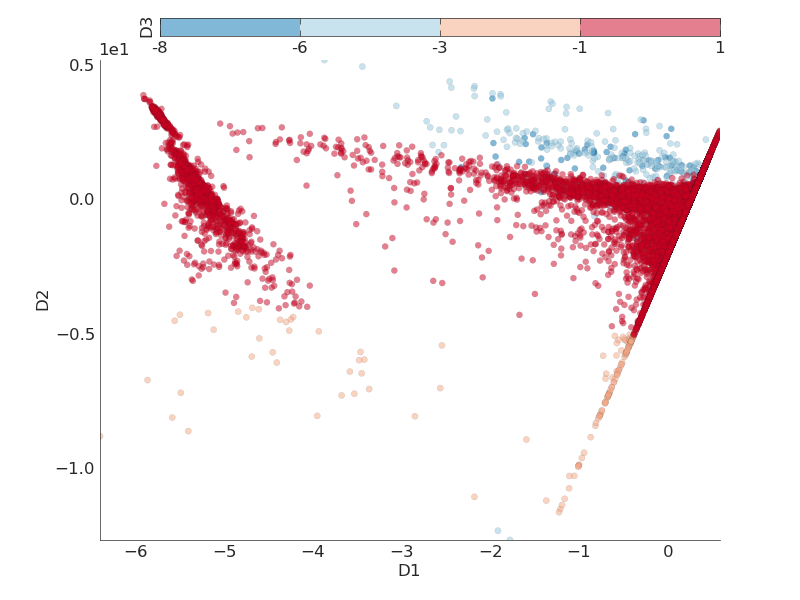
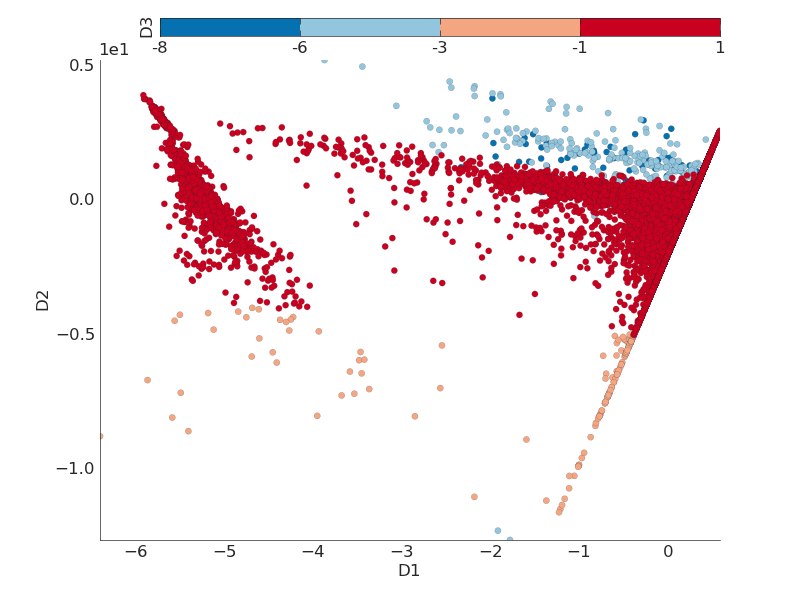
Minor changes

diff --git a/python/thesis_plots.py b/python/thesis_plots.py
@@ -40,7 +40,7 @@ def plot_issue_26():
 	"""
 	PCA and Kmeans for dataset 1
 	"""
-	from sklearn.decomposition import PCA, KernelPCA
+	from sklearn.decomposition import PCA
 	from sklearn.cluster import KMeans
 	from plotting import make_color_grouped_scatter_plot
 	datapath = '/Users/halfdan/Dropbox/Waseda/Research/MarketSimulation/tex/datasets/d1_sameLatDist_ssmm40_sc100/'
@@ -52,15 +52,24 @@ def plot_issue_26():
 	t = pca.fit_transform(fit_data.values)
 	columns = ['d1', 'd2', 'd3']
 	df = pandas.DataFrame(t, columns=columns)
+
+	colormap = brewer2mpl.get_map('RdBu', 'diverging', 4, reverse=True)
 	filename = figure_save_path + 'issue_26_PCA_a_3components.png'
-	make_color_grouped_scatter_plot(data_frame=df, x_name='d1', y_name='d2', color_by='d3', filename=filename)
+	make_color_grouped_scatter_plot(data_frame=df, x_name='d1', y_name='d2', color_by='d3', filename=filename, colormap=colormap)
 
 	kmeans = KMeans(n_clusters = 3)
 	kmeans.fit(t)
 	df['labels'] = kmeans.labels_
+	print len(df['d1'])
+	print len(kmeans.labels_)
+	colormap = brewer2mpl.get_map('Set2', 'Qualitative', 3, reverse=True)
 	filename = figure_save_path + 'issue_26_PCA_b_clusters.png'
-	make_color_grouped_scatter_plot(data_frame=df, x_name='d1', y_name='d2', color_by='labels', filename=filename)
+	make_color_grouped_scatter_plot(data_frame=df, x_name='d1', y_name='d2', color_by='labels', filename=filename, colormap = colormap)
+
+def remake_all_plots():
+	plot_issue_21()
+	plot_issue_26()
 
 
 if __name__ == '__main__':
-	plot_issue_21()
+	plot_issue_26()

diff --git a/python/plotting.py b/python/plotting.py
@@ -93,6 +93,7 @@ def make_color_grouped_scatter_plot(data_frame, x_name, y_name, color_by, filena
     n_intervals = len(colormap.colors)
     if color_function == 'log': bins = np.logspace(np.log10( data_frame[color_by].min()), np.log10(data_frame[color_by].max()), n_intervals + 1, base = 10)
     else: bins = np.linspace(eval(color_function)(data_frame[color_by].min()), eval(color_function)(data_frame[color_by].max()), n_intervals + 1)
+    print bins
     data_frame['groups'] = pandas.cut(data_frame[color_by], bins=bins, labels = False)
     groups = pandas.cut(data_frame[color_by], bins=bins)
     bounds = []
